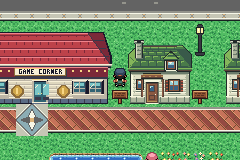
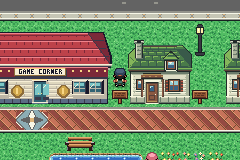
The stranger notices the other visitors: the story copy's F1 changes
The story copy (approved 9 November, section F1) on this pull request:

- MW04 (Celadon): the line about the seven comes first, so the question's "They called POKeMON property"
  read as if the seven did. It names Rocket now: "STRANGER: ROCKET called POKeMON property. You opposed
  them." (MW04_Text_Question).
- MW08 (Cerulean Cave): the replica line comes before the battle offer (the order of the copy's C5). The
  familiar greeting is split: "MEWTWO: You found the quiet place I chose." (MW08_Text_Familiar), the replica
  line, then "MEWTWO: If we battle, let it be a choice we both make." (new MW08_Text_Battle), then "Face
  MEWTWO now?". The rest of C5 (the MW07 greeting) is a later change.

Tests: new celadon the stranger asks about rocket, cerulean cave mewtwo offers a battle after the replicas,
cerulean cave mewtwo offers a battle; cerulean cave mewtwo heard of the replicas presses once less to end on
the replica line again. One Celadon screen re-accepted (v2-main's Celadon changes, from the merge). The
campaign guide's MW04 and MW08 entries and the story check's history follow.

Claude-Session: https://claude.ai/code/session_01XMJF17U18XtbfGGgKpeJmb

Changed region(s): [[0.2625, 0.8438, 0.4083, 0.9688], [0.0583, 0.7812, 0.2042, 0.875], [0.0583, 0.625, 0.2042, 0.7188]]

diff --git a/project/docs/campaign-story-and-progression-guide.md b/project/docs/campaign-story-and-progression-guide.md
@@ -644,7 +644,7 @@ Separate Lavender stranger/Fuji exchange with optional Mew glimpse.
 
 **37C source:** [`MW04_Visibility`]([LOCAL_WORKSPACE]/_local/worktrees/pikachu-bike-37c-dev/data/scripts/rainbow_story.inc:469). [Exact dialogue / choices / original captures]([LOCAL_WORKSPACE]/_local/evidence/rainbow-story-01/story-review-01/story-review.html).
 
-Questions Poké Balls after opposing Rocket. Since 2026-10-31 (story audit T2), if the player saw the Friends land in Viridian (`FLAG_FRIENDS_ARRIVED_IN_VIRIDIAN`) he first says: “Seven people fell out of the sky over VIRIDIAN. They ask their POKéMON before they reach for a BALL. I have watched.” A callback; nothing is written. Replay tests `celadon the stranger remembers the seven`, `celadon the stranger after the hideout and the seven`.
+Questions Poké Balls after opposing Rocket. Since 2026-10-31 (story audit T2), if the player saw the Friends land in Viridian (`FLAG_FRIENDS_ARRIVED_IN_VIRIDIAN`) he first says: “Seven people fell out of the sky over VIRIDIAN. They ask their POKéMON before they reach for a BALL. I have watched.” A callback; nothing is written. His question names Rocket since 2026-11-09 (story copy F1), so “They called POKéMON property” no longer reads as the seven: “ROCKET called POKéMON property. You opposed them. Yet you carry POKé BALLS. Do you try to earn their trust?” Replay tests `celadon the stranger remembers the seven`, `celadon the stranger asks about rocket`, `celadon the stranger after the hideout and the seven`.
 
 ### MW05 — Silph disguise slip
 
@@ -684,7 +684,7 @@ Different Champion question before/after Kanto League.
 
 **37C source:** [`MW08_Intro`]([LOCAL_WORKSPACE]/_local/worktrees/pikachu-bike-37c-dev/data/scripts/rainbow_story.inc:617). [Exact dialogue / choices / original captures]([LOCAL_WORKSPACE]/_local/evidence/rainbow-story-01/story-review-01/story-review.html).
 
-Optional familiar/unfamiliar introduction and Face/Leave before original level70 Mewtwo. Since 2026-10-31 (story audit T2), with the familiar greeting and Black Tide resolved in Johto (`FLAG_LG_FINAL_RESOLVED`), Mewtwo adds: “Far to the west, ROCKET made birds the way I was made. You broke their chains. I heard.” A callback across the regions: it reads Johto’s receipt for dialogue only and writes nothing. Replay tests `cerulean cave mewtwo heard of the replicas`, `cerulean cave mewtwo can be left after the replicas`.
+Optional familiar/unfamiliar introduction and Face/Leave before original level70 Mewtwo. Since 2026-10-31 (story audit T2), with the familiar greeting and Black Tide resolved in Johto (`FLAG_LG_FINAL_RESOLVED`), Mewtwo adds: “Far to the west, ROCKET made birds the way I was made. You broke their chains. I heard.” A callback across the regions: it reads Johto’s receipt for dialogue only and writes nothing. Since 2026-11-09 (story copy F1, the order of its C5) the familiar greeting is split so this line comes before the battle offer: “MEWTWO: You found the quiet place I chose.”, the replica line, “MEWTWO: If we battle, let it be a choice we both make.”, then “Face MEWTWO now?”. Replay tests `cerulean cave mewtwo heard of the replicas`, `cerulean cave mewtwo offers a battle after the replicas`, `cerulean cave mewtwo offers a battle`, `cerulean cave mewtwo can be left after the replicas`.
 
 ### MW09 — Cave-mouth reflection
 

diff --git a/project/docs/story-sanity-check.md b/project/docs/story-sanity-check.md
@@ -651,3 +651,4 @@ Checkpoints are game saves, so they still load after a map change, as long as th
 | 2026-11-06 | `claude/after-the-league`: what KR-106 and KR-107 broke (KR-108): Route 24's Charmander back as the ST03 rescue's own, Oak's and Blue's lines after the Hall of Fame, the bird line and the road to ELM once on the first talk, older Champion saves | **Steps 63–78 pass** (Nugget Bridge to Route 25 and back over the bridge into Cerulean, the steps that cross Route 24), first try, from the step 62 checkpoint, on the final build (ROM `f9b829ae`, 343 s). The other changes are after the Hall of Fame, past the check's last step. |
 | 2026-11-06 | `claude/kanto-story-scenes`: story scenes that couldn't play right (KR-109): the Silph scientist's RB06, the Friends' camps from any side, Cinnabar's volcano walkers kept near their spots, LB's walk round Viridian's sign | **Steps 19–24, 316–317 and 326–361 pass** (the Friends' arrival in Viridian and on to its Center; Celadon after Silph onto Route 16; Cinnabar from the sea to Bill and the Surf west), first try, from the checkpoints before them, on the final build (ROM `b57e6357`; 61 s, 43 s, 961 s). |
 | 2026-11-09 | `claude/story-nao-road-home` (#88, with v2-main merged): Nao's road home with the story copy's F1 changes: Oak's two Nao lines inside his once-only referral, Nao's Ecruteak introduction reworded, Mr. Fuji reads Nao's letter once (`FLAG_RB_FUJI_LETTER_READ`, 0x0B1) and later says it is on his table before asking about the flute | **Steps 12–13 and 198–201 pass** (Oak's lab and the Pokédex; Fuji's rescue, the Poké Flute, out of his house and onto Route 12), first try, from the checkpoints before them, on the final build (ROM `92a919e9`; 46 s, 51 s). The changed lines play only after the Kanto League or Johto's welcome, past the check's end, so the last validated point is unchanged. `pae test run`: 620 pass (three new, two rewritten). |
+| 2026-11-09 | `claude/story-stranger-visitors` (#90, with v2-main merged): the stranger notices the other visitors, with the story copy's F1 changes: his Celadon question (MW04) names Rocket, and in Cerulean Cave Mewtwo's line about Rocket's birds comes before his battle offer | **Steps 170–175 pass** (out of the Hideout and the Game Corner, Celadon Mansion's Tea, east onto Route 7: Celadon after the Hideout, where the stranger stands), first try, from step 169's checkpoint, on the final build (ROM `c0af7796`; 181 s). Talking to the stranger is optional and Cerulean Cave comes after the League, so the check plays neither; the last validated point is unchanged. |
